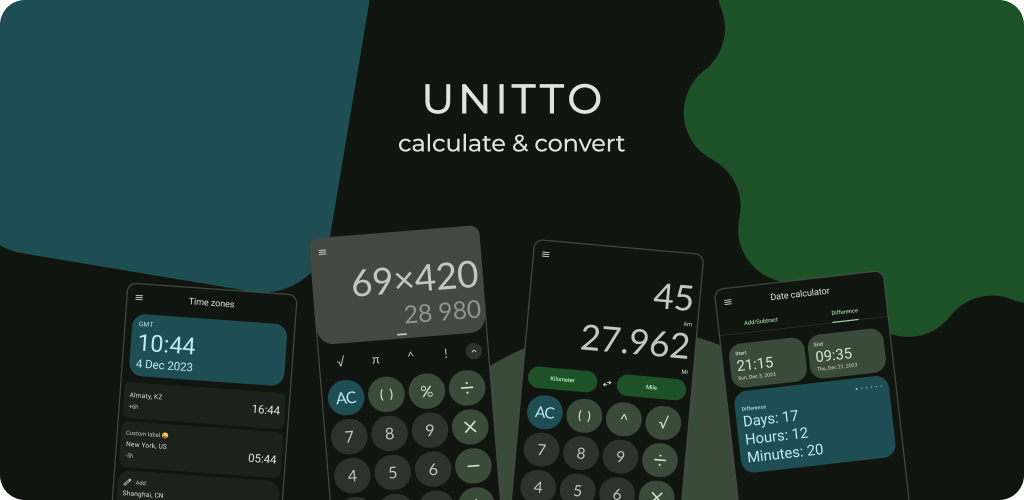
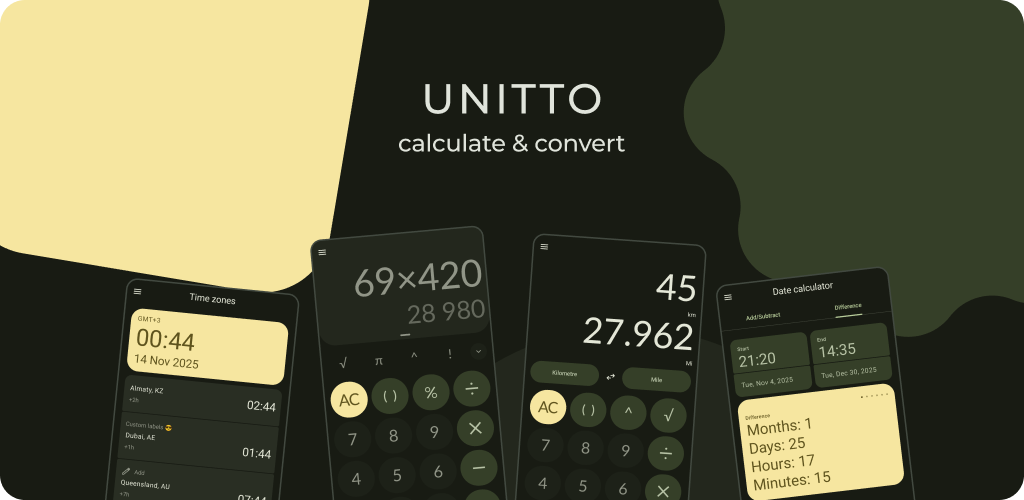
update media for november 2025 update

diff --git a/README.md b/README.md
@@ -45,4 +45,5 @@ Leave.
 - Terms and Conditions: https://sadellie.github.io/unitto/terms
 - Privacy Policy: https://sadellie.github.io/unitto/privacy
 - Help: https://sadellie.github.io/unitto/help
+- Telegram channel: https://t.me/sadellie_dev
 - Web version of this application uses ported [kt-math](https://github.com/gciatto/kt-math) with additional fixes. Files in `kt-math` folder are [licensed under GPL-2.0](./kt-math/LICENSE-kt-math)
